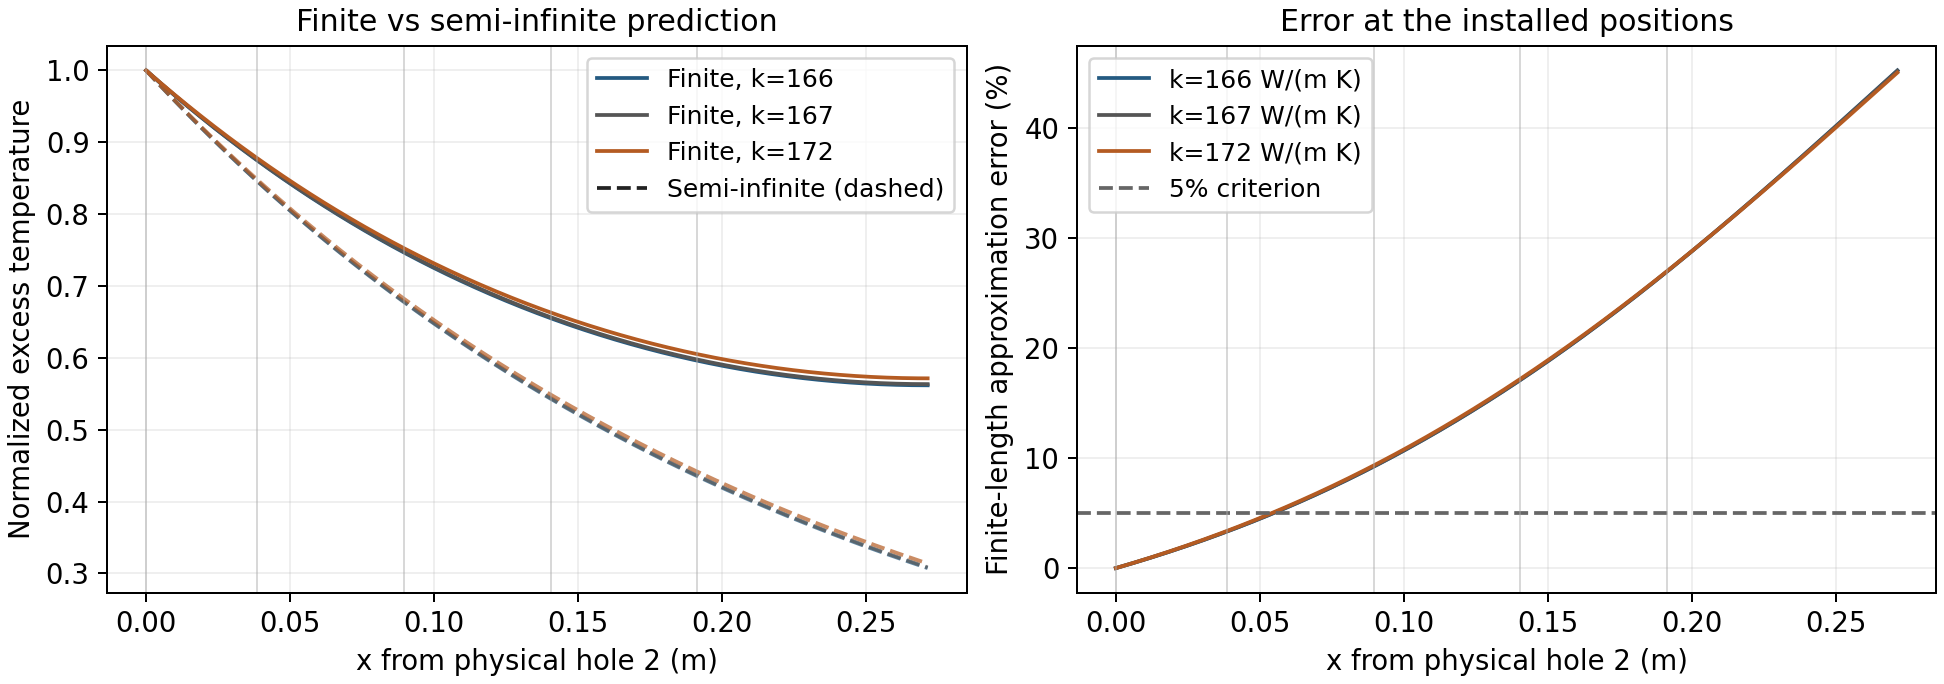
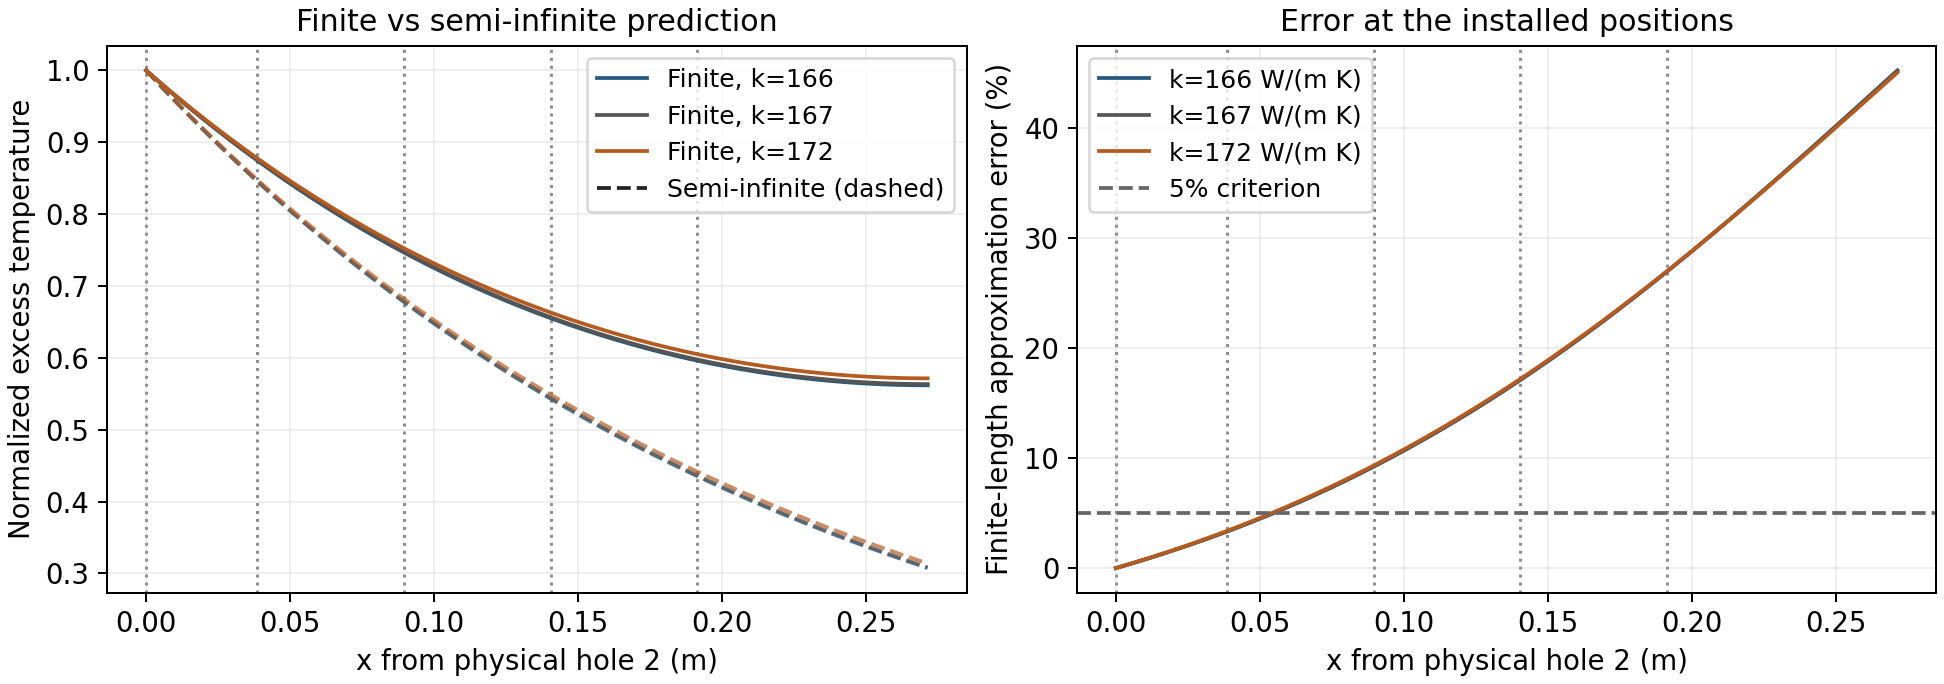
Clarify A4 source provenance, confirmed geometry and inline notation

diff --git a/Module_7/python/analysis/build_a4_pdf.py b/Module_7/python/analysis/build_a4_pdf.py
@@ -1,7 +1,11 @@
 """Build the A4 PDF from its reviewed Markdown source.
 
 1. .venv/bin/python Module_7/python/analysis/build_a4_pdf.py --prepare
-2. A Python with reportlab and Pillow: build_a4_pdf.py --render
+2. Commit the manuscript, calculations, figure and builder to obtain source H.
+3. A Python with reportlab and Pillow: build_a4_pdf.py --render --source-ref H
+4. Review and commit the PDF/build record to obtain artifact commit K.
+5. build_a4_pdf.py --record-release --pdf-commit K, then commit that receipt.
+6. build_a4_pdf.py --verify-release
 
 Preparation renders mathematical notation with matplotlib; rendering uses
 ReportLab. Neither step alters the paper source or experimental raw files.
@@ -19,10 +23,90 @@ ROOT = Path(__file__).resolve().parents[3]
 SOURCE = ROOT / "docs/assessments/a4_finite_length_biot.md"
 BUILD = ROOT / "Module_7/output/a4_build"
 PDF = ROOT / "Module_7/output/pdf/A4_Zhu.pdf"
+BUILD_RECORD = PDF.parent / "A4_Zhu_build.json"
+RELEASE_RECORD = PDF.parent / "A4_Zhu_release.json"
+SOURCE_INPUTS = (
+    "docs/assessments/a4_finite_length_biot.md",
+    "Module_7/python/analysis/build_a4_pdf.py",
+    "Module_7/python/analysis/a4_theory_checks.py",
+    "Module_7/figures/a4/a4_finite_length_prediction.png",
+    "Module_7/data/processed/a4_predictions/a4_numeric_checks.json",
+    "Module_7/data/processed/a4_predictions/a4_sensor_predictions.csv",
+    "Module_7/data/processed/a4_predictions/a4_problem_1_3.csv",
+)
 
 
 def digest(path):
     return hashlib.sha256(path.read_bytes()).hexdigest()
+
+
+def git_bytes(commit, path):
+    return subprocess.check_output(["git", "show", f"{commit}:{path}"], cwd=ROOT)
+
+
+def resolve_commit(ref):
+    return subprocess.check_output(
+        ["git", "rev-parse", "--verify", ref + "^{commit}"], cwd=ROOT, text=True).strip()
+
+
+def check_source(commit, hashes=None):
+    """Require every PDF-generating input to match its cited source commit."""
+    hashes = hashes or {name: digest(ROOT / name) for name in SOURCE_INPUTS}
+    if set(hashes) != set(SOURCE_INPUTS):
+        raise ValueError("Source-input manifest is incomplete")
+    for name, expected in hashes.items():
+        historical = hashlib.sha256(git_bytes(commit, name)).hexdigest()
+        if historical != expected or digest(ROOT / name) != expected:
+            raise ValueError(f"Source/checkpoint mismatch: {name}; commit inputs before rendering")
+    return hashes
+
+
+def inline(text):
+    """Escape ordinary text, then render the manuscript's explicit inline notation."""
+    text = html.escape(text)
+    text = re.sub(r"\*\*(.+?)\*\*", r"<b>\1</b>", text)
+    text = re.sub(r"(?<!\*)\*([^*]+)\*(?!\*)", r"<i>\1</i>", text)
+    text = re.sub(r"\^([+-]?\d+)", r"<super>\1</super>", text)
+    for name, label in (("Bi_parallel", "Bi<sub>parallel</sub>"),
+                        ("Bi_perp", "Bi<sub>perp</sub>"),
+                        ("Theta_tip", "Theta<sub>tip</sub>")):
+        text = text.replace(name, label)
+    text = re.sub(r"(?<!\w)\$?h_L\$?(?!\w)", "h<sub>L</sub>", text)
+    return re.sub(r"`([^`]+)`", r'<font name="Courier" size="8">\1</font>', text)
+
+
+def verify_release(record=None):
+    """Check the delivered bytes both locally and at the exact artifact commit."""
+    record = record or json.loads(RELEASE_RECORD.read_text())
+    build = json.loads(BUILD_RECORD.read_text())
+    commit = resolve_commit(record["pdf_commit"])
+    if record["source_checkpoint"] != build["git_source_checkpoint"]:
+        raise ValueError("Release/source checkpoint mismatch")
+    check_source(record["source_checkpoint"], build["source_input_sha256"])
+    pdf_relative = str(PDF.relative_to(ROOT))
+    expected = record["pdf_sha256"]
+    if digest(PDF) != expected or hashlib.sha256(git_bytes(commit, pdf_relative)).hexdigest() != expected:
+        raise ValueError("PDF bytes do not match the artifact commit/SHA-256")
+    if build["pdf_sha256"] != expected or build["source_sha256"] != digest(SOURCE):
+        raise ValueError("Build record checksum mismatch")
+    if git_bytes(commit, str(BUILD_RECORD.relative_to(ROOT))) != BUILD_RECORD.read_bytes():
+        raise ValueError("Build record differs from its artifact commit")
+    subprocess.run(["git", "merge-base", "--is-ancestor", record["source_checkpoint"], commit],
+                   cwd=ROOT, check=True)
+    return record
+
+
+def record_release(pdf_commit):
+    build = json.loads(BUILD_RECORD.read_text())
+    record = {"source_checkpoint": build["git_source_checkpoint"],
+              "pdf_commit": resolve_commit(pdf_commit),
+              "pdf_path": str(PDF.relative_to(ROOT)), "pdf_sha256": digest(PDF),
+              "source_path": str(SOURCE.relative_to(ROOT)), "source_sha256": digest(SOURCE),
+              "build_record": str(BUILD_RECORD.relative_to(ROOT)),
+              "versioning": "The PDF cites its source-only checkpoint; this separate receipt identifies the exact committed PDF without a self-referential commit hash."}
+    verify_release(record)
+    RELEASE_RECORD.write_text(json.dumps(record, indent=2) + "\n")
+    print(RELEASE_RECORD)
 
 
 def prepare():
@@ -47,7 +131,7 @@ def prepare():
     print(f"Prepared {len(equations)} mathematical displays")
 
 
-def render():
+def render(source_ref=None):
     from reportlab.lib import colors
     from reportlab.lib.enums import TA_CENTER
     from reportlab.lib.pagesizes import letter
@@ -82,21 +166,9 @@ def render():
     mono = ParagraphStyle("A4Mono", parent=body, fontName="Courier", fontSize=7.2,
                           leading=10, spaceBefore=3, spaceAfter=8)
 
-    def inline(text):
-        text = html.escape(text)
-        text = re.sub(r"\*\*(.+?)\*\*", r"<b>\1</b>", text)
-        text = re.sub(r"(?<!\*)\*([^*]+)\*(?!\*)", r"<i>\1</i>", text)
-        text = re.sub(r"\^([+-]?\d+)", r"<super>\1</super>", text)
-        text = text.replace("Bi_parallel", "Bi<sub>parallel</sub>")
-        text = text.replace("Bi_perp", "Bi<sub>perp</sub>")
-        text = text.replace("Theta_tip", "Theta<sub>tip</sub>")
-        text = re.sub(r"`([^`]+)`", r'<font name="Courier" size="8">\1</font>', text)
-        return text
-
-    commit = subprocess.check_output(["git", "rev-parse", "HEAD"], cwd=ROOT, text=True).strip()
-    clean = subprocess.run(["git", "diff", "--quiet", "HEAD", "--", str(SOURCE.relative_to(ROOT))], cwd=ROOT).returncode == 0
-    git_caption = ("Git source checkpoint: " + commit if clean else
-                   "Working source; checkpoint pending. Repository base: " + commit)
+    commit = resolve_commit(source_ref or "HEAD")
+    source_hashes = check_source(commit)
+    git_caption = "Source/calculation checkpoint (source only): " + commit
     pdf_styles = {"# ": h1, "## ": h2, "### ": h3}
     story, i = [], 0
     lines = SOURCE.read_text().splitlines()
@@ -154,6 +226,7 @@ def render():
             story.append(Paragraph(inline(text[len(heading):]), pdf_styles[heading])); i += 1
             if heading == "# ":
                 story.append(Paragraph(inline(git_caption), small))
+                story.append(Paragraph("Exact PDF commit and SHA-256: see A4_Zhu_release.json in Module_7/output/pdf/.", small))
                 story.append(Paragraph("Provisional theory | Measured diameter 12.77 mm; vernier caliper, precision 0.01 mm", small))
             continue
         paragraph = [text]; i += 1
@@ -177,12 +250,15 @@ def render():
                             author="Yanheng Zhu", pageCompression=1)
     doc.build(story, onFirstPage=footer, onLaterPages=footer)
     record = {"author": "Yanheng Zhu", "source": str(SOURCE.relative_to(ROOT)),
-              "source_sha256": digest(SOURCE), "git_source_checkpoint": commit if clean else None,
-              "git_base_checkpoint": commit, "source_committed": clean,
+              "source_sha256": digest(SOURCE), "git_source_checkpoint": commit,
+              "git_base_checkpoint": commit, "source_committed": True,
+              "source_input_sha256": source_hashes,
+              "pdf_artifact_commit_record": str(RELEASE_RECORD.relative_to(ROOT)),
+              "checkpoint_scope": "source and calculation inputs only; exact PDF commit is in the separate release record",
               "diameter_status": "measured", "diameter_m": 0.01277,
               "diameter_method": "vernier caliper", "instrument_precision_mm": 0.01,
               "due_at": "2026-11-09T09:05:00-05:00", "pdf_sha256": digest(PDF)}
-    (PDF.parent / "A4_Zhu_build.json").write_text(json.dumps(record, indent=2) + "\n")
+    BUILD_RECORD.write_text(json.dumps(record, indent=2) + "\n")
     print(PDF)
     print(git_caption)
 
@@ -191,10 +267,20 @@ if __name__ == "__main__":
     parser = argparse.ArgumentParser(description=__doc__)
     parser.add_argument("--prepare", action="store_true")
     parser.add_argument("--render", action="store_true")
+    parser.add_argument("--source-ref", help="Committed source/calculation inputs, normally the source-only commit H")
+    parser.add_argument("--record-release", action="store_true")
+    parser.add_argument("--pdf-commit", help="Commit K that contains these exact PDF/build-record bytes")
+    parser.add_argument("--verify-release", action="store_true")
     args = parser.parse_args()
     if args.prepare:
         prepare()
     if args.render:
-        render()
-    if not (args.prepare or args.render):
-        parser.error("Select --prepare or --render")
+        render(args.source_ref)
+    if args.record_release:
+        if not args.pdf_commit:parser.error("--record-release requires --pdf-commit")
+        record_release(args.pdf_commit)
+    if args.verify_release:
+        record = verify_release()
+        print("Verified source checkpoint, exact committed PDF, build record and SHA-256:", record["pdf_commit"])
+    if not (args.prepare or args.render or args.record_release or args.verify_release):
+        parser.error("Select --prepare, --render, --record-release or --verify-release")

diff --git a/Module_7/python/analysis/a4_theory_checks.py b/Module_7/python/analysis/a4_theory_checks.py
@@ -148,7 +148,7 @@ def main():
     axes[1].axhline(5, color="#666666", ls="--", label="5% criterion")
     for ax in axes:
         for x in POSITIONS_M:
-            ax.axvline(x, color="#aaaaaa", alpha=.45, lw=.8)
+            ax.axvline(x, color="#666666", alpha=.75, lw=1.2, ls=":", zorder=1)
         ax.grid(alpha=.2)
         ax.set_xlabel("x from physical hole 2 (m)")
         ax.legend(fontsize=10)

diff --git a/docs/assessments/a4_finite_length_biot.md b/docs/assessments/a4_finite_length_biot.md
@@ -1,12 +1,12 @@
 # A4: Finite-Rod Model and Validity Checks
 
-**Yanheng Zhu | Phys 39 | Updated 2026-11-04**
+**Yanheng Zhu | Phys 39 | Updated 2026-11-05**
 
 **Assignment A4 | Due Monday, November 9, 2026, 9:05 AM (America/New_York)**
 
 Repository: https://github.com/zhuyanheng/Phys39-teamR-X
 
-The exact Git source checkpoint is embedded in the generated PDF and its build record. This is a provisional theoretical prediction, not a fit of the measured temperature profile. The rod diameter is measured; h and the conductivity range remain provisional theory inputs. A4 concerns Module 7 Parts I and II, not the Module 8 Angstrom measurement. References [1]-[4] are listed at the end.
+This is a provisional theory calculation using measured geometry, literature k and h = 10 W/(m^2 K), not a fit of temperature data. The first-page checkpoint identifies the source and calculations only. The exact PDF commit and SHA-256 are recorded separately in `Module_7/output/pdf/A4_Zhu_release.json`. References [1]-[4] are listed at the end.
 
 ## Geometry, property sources, and conventions
 
@@ -35,7 +35,7 @@ The 6061-T6 table lists k = 166 at 0 C, 167 at 20 C and 172 W/(m K) at 100 C. Th
 | A5 / T5 | 9 | 0.1915 |
 | Actual tip, no probe | - | 0.2715 |
 
-The reported segments 3.85 + 5.1 + 5.1 + 5.1 + 8 cm give L = 27.15 cm; hole 9 remains 8 cm from the tip. The 5.1 units are assumed cm pending confirmation. T1 is the rod boundary; A0 remains the separate TEC feedback/safety sensor.
+The reported segments 3.85 + 5.1 + 5.1 + 5.1 + 8 cm give L = 27.15 cm; hole 9 remains 8 cm from the tip. The 5.10 cm spacings are confirmed by the installation record dated 2026-10-30; position uncertainties have not been supplied. T1 is the rod boundary; A0 remains the separate TEC feedback/safety sensor.
 
 <!-- pagebreak -->
 
@@ -331,17 +331,17 @@ Every heat-flux calculation in Part 1 has units W/m^2, every heat-rate calculati
 
 <!-- pagebreak -->
 
-## References, reproducibility, and completion status
+## References and reproducibility
 
 [1] J. H. Lienhard IV and J. H. Lienhard V, *A Heat Transfer Textbook*, 6th ed., version supplied by the course. Problem 1.3: textbook p. 37 (PDF p. 51); fin derivation: Section 4.5, pp. 163-173; Example 4.8: p. 172 (PDF p. 186); Problems 4.12 and 4.20: pp. 186-187 (PDF pp. 200-201); Table A.1: pp. 739-740 (PDF pp. 753-754); Table A.2: pp. 742-744 (PDF pp. 756-758).
 
 https://sethfraden.github.io/Phys39F26-course/references/lienhard-heat-transfer-textbook-v6.pdf
 
-[2] Phys 39, Module 7 Part II, *Finite and Infinite Rod Theory*, course source checked 2026-11-03; submission requirements updated from the student-provided Moodle text on 2026-11-04. Equations (4.27)-(4.51), dimensionless variables and the distinction between transverse and parallel resistance ratios.
+[2] Phys 39, Module 7 Part II, *Finite and Infinite Rod Theory*, course source checked 2026-11-03. Equations (4.27)-(4.51), dimensionless variables and the distinction between transverse and parallel resistance ratios.
 
 https://sethfraden.github.io/Phys39F26-course/labs/fin-design-derivation/
 
-[3] Phys 39, Module 7 Part III, *A4: Finite-Rod Model and Validity Checks*, course source checked 2026-11-03; submission requirements updated from the student-provided Moodle text on 2026-11-04. Four-part requirements; provisional h = 10 W/(m^2 K); no measured stationary-profile data required.
+[3] Phys 39, Module 7 Part III, *A4: Finite-Rod Model and Validity Checks*, course source checked 2026-11-03. Four-part requirements; provisional h = 10 W/(m^2 K); no measured stationary-profile data required.
 
 https://github.com/SethFraden/Phys39F26-course/blob/main/course/labs/lab-08/index.md#a4-finite-rod-model-and-validity-checks
 
@@ -359,8 +359,6 @@ Reproduce the numerical tables and figure from the repository root:
 
 Numerical evidence is saved separately under `Module_7/data/processed/a4_predictions/`. The script verifies the boundary conditions, both long-rod limits, two independent relative-error expressions, the Biot identity, the silver check and Problem 4.20's 3.67% answer. Its outputs are provisional calculations, not sensor measurements.
 
-Theoretical content completed: Parts 1-4, dimensional checks, stated 5% error criterion, actual installed positions, explicit coordinate origin, and separate length and radius conclusions. The superseded spacecraft-radiator application question is not used; the current airflow question is answered.
+Measurement record updated 2026-11-04: d = 12.77 mm, vernier caliper, reported instrument precision 0.01 mm. Position/length uncertainties and repeated diameter readings have not been provided; no ruler precision or experimental certification is invented. The latest measured temperature record is not an input to these A4 predictions.
 
-Measurement record updated 2026-11-04: d = 12.77 mm, vernier caliper, reported instrument precision 0.01 mm. Position/length uncertainties and repeated diameter readings have not been provided; no ruler precision or experimental certification is invented. The individual submission deadline above follows the student-provided Moodle assignment text, which supersedes the older public course calendar. The latest measured temperature record is not an input to these A4 predictions.
-
-AI assistance disclosure: Codex assisted with the derivations, calculation script, drafting and document preparation. The named student must review the reasoning, verify the reported setup and be able to explain the work. No AI-generated number is presented as a measurement.
+AI assistance: Codex assisted with drafting, the calculation script, and document preparation.

diff --git a/docs/module_notes/module_07_rod_instrument.md b/docs/module_notes/module_07_rod_instrument.md
@@ -148,9 +148,9 @@ stays at the TEC base and does not take one of the five rod holes.
 | --- | ---: | --- |
 | bottom reference point → hole 2 | 3 | cm, stated explicitly by the operator |
 | hole 2 → hole 5 | 3.85 | cm, stated explicitly by the operator |
-| hole 5 → hole 7 | 5.1 | assumed cm; the operator did not repeat the unit |
-| hole 7 → hole 8 | 5.1 | assumed cm; the operator did not repeat the unit |
-| hole 8 → hole 9 | 5.1 | assumed cm; the operator did not repeat the unit |
+| hole 5 → hole 7 | 5.1 | cm; confirmed in the 2026-11-05 review of the 2026-10-30 installation record |
+| hole 7 → hole 8 | 5.1 | cm; confirmed in the 2026-11-05 review of the 2026-10-30 installation record |
+| hole 8 → hole 9 | 5.1 | cm; confirmed in the 2026-11-05 review of the 2026-10-30 installation record |
 | hole 9 → top end (rod tip) | 8 | cm, added by the operator afterwards |
 
 ### Cumulative position table
@@ -180,7 +180,7 @@ confirmed to be the physical bottom end.
 ### Still to complete
 
 - Confirm the actual channel → probe → hole assignment.
-- Confirm that the unit of the last three 5.1 segments is cm.
+- Units confirmed: the last three 5.10 segments are in cm (2026-11-05 review).
 - Overall physical length, position/length measurement methods and uncertainties.
   Diameter is 12.77 mm, measured by vernier caliper with operator-reported
   precision 0.01 mm; repeated-reading scatter has not been supplied.
